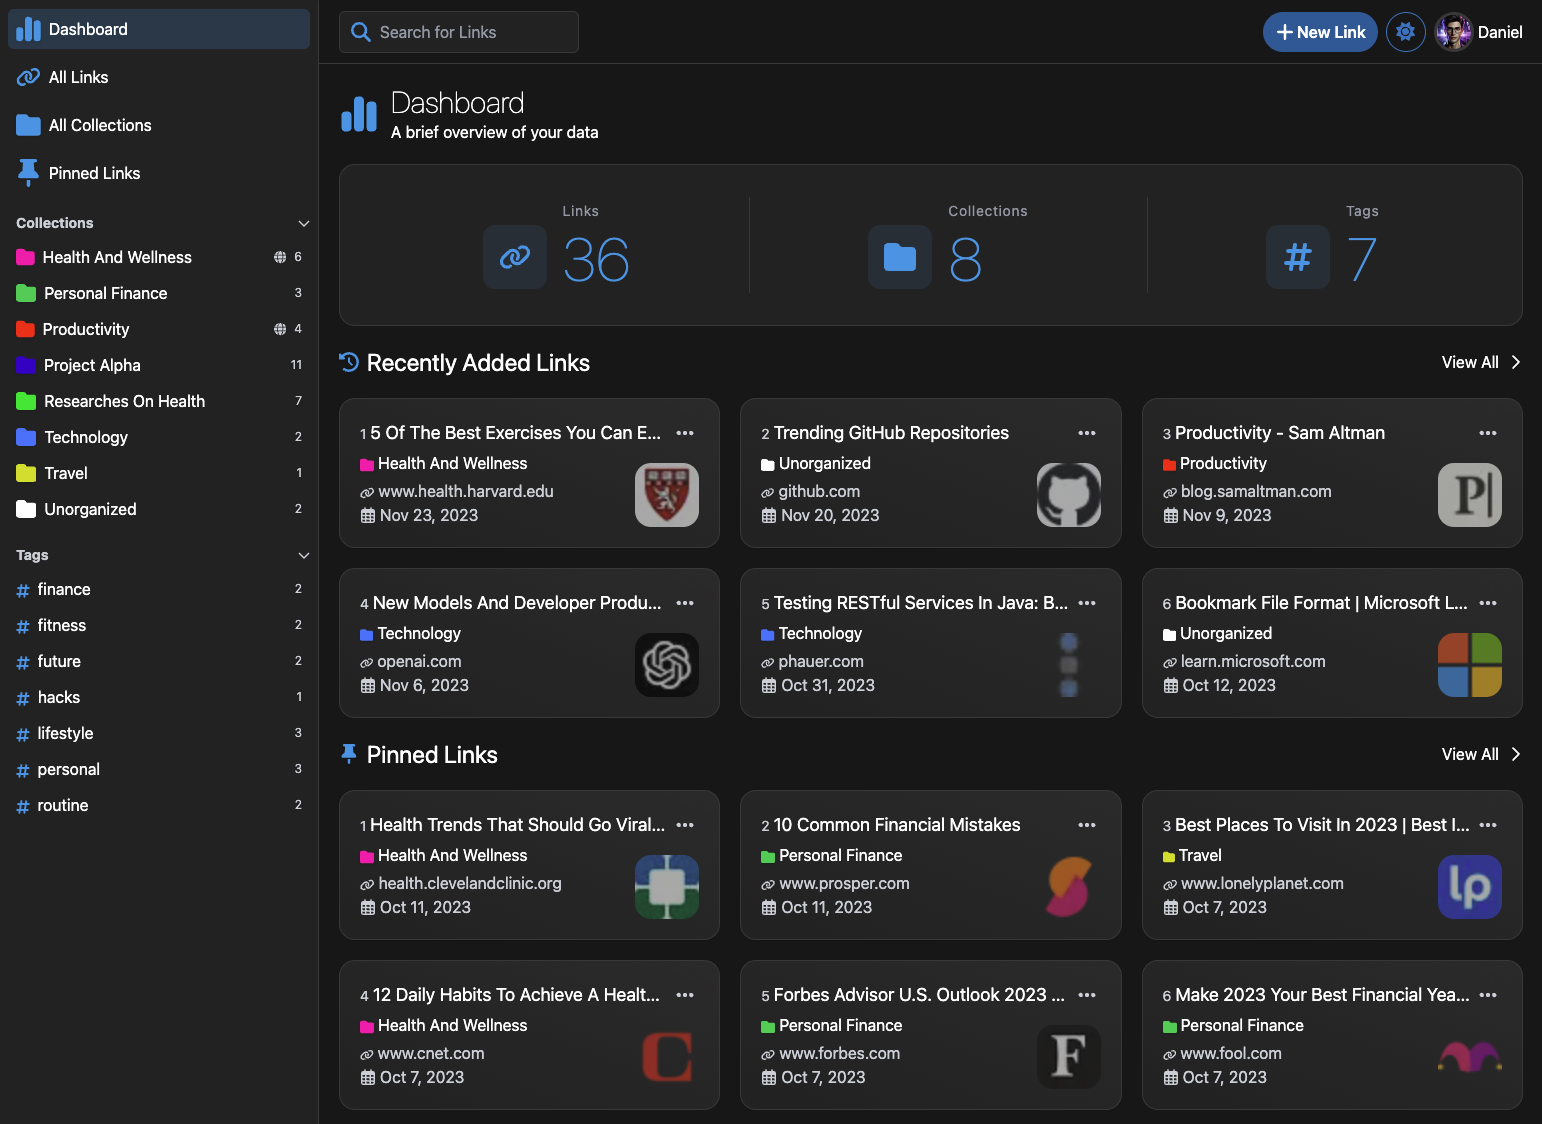
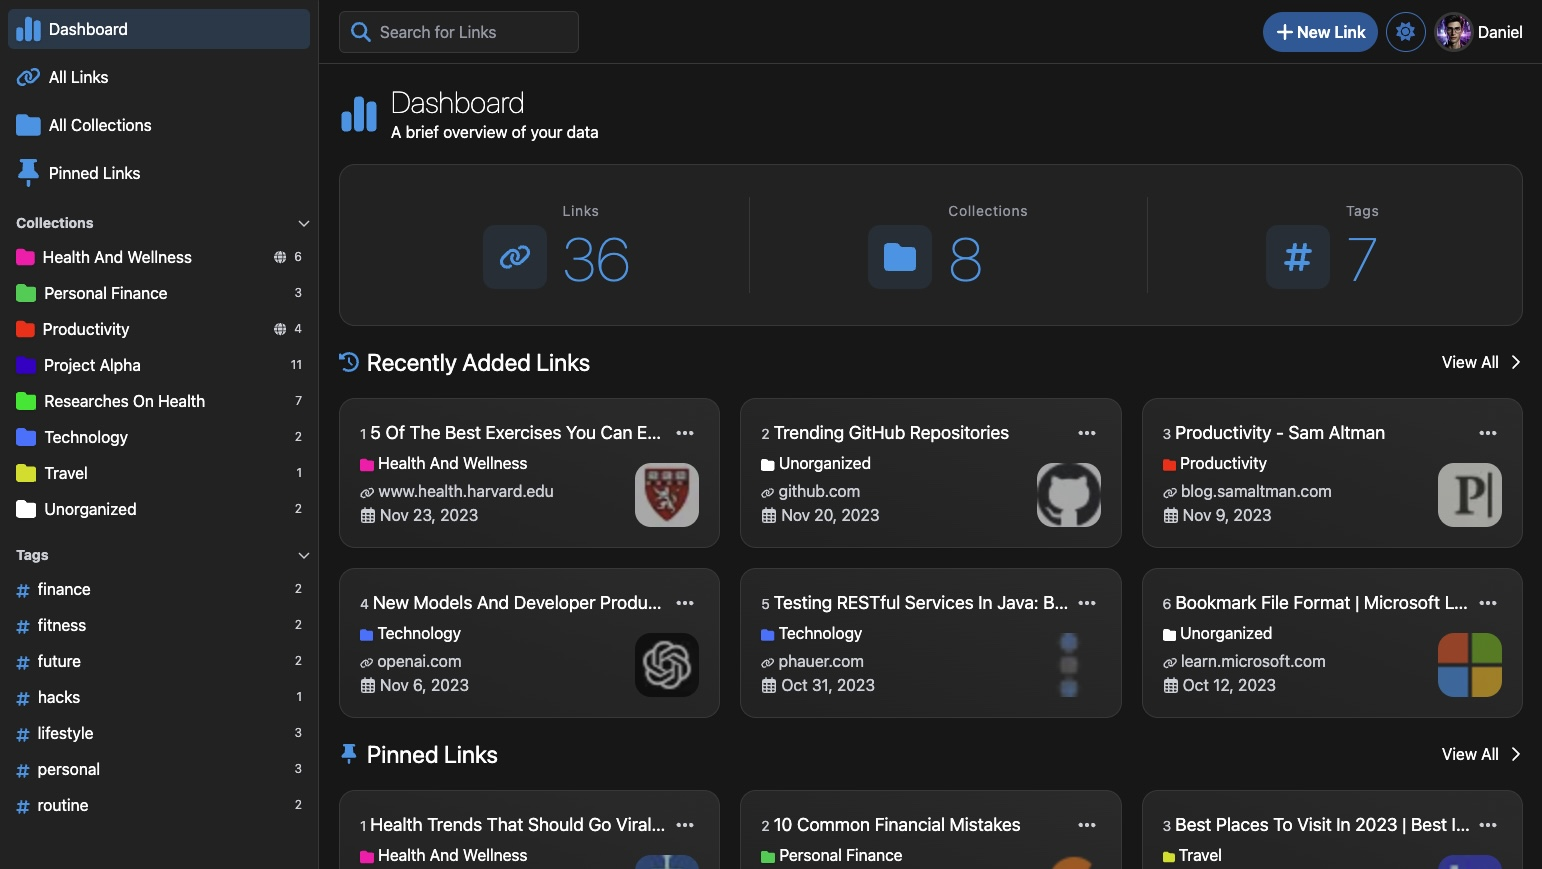
cropped hero image

diff --git a/components/Homepage/Showcase.tsx b/components/Homepage/Showcase.tsx
@@ -59,7 +59,7 @@ export default function Showcase() {
             <Image
               src="./app/dashboard.jpg"
               width={1542}
-              height={1124}
+              height={869}
               alt=""
               className="relative z-10 shadow-lg rounded-lg mx-auto"
               draggable="false"
